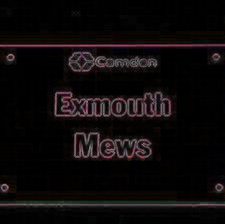
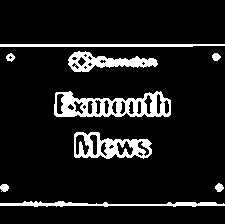
morphological operations implemented

diff --git a/src/main/kotlin/Main.kt b/src/main/kotlin/Main.kt
@@ -4,19 +4,39 @@ import org.opencv.core.Size
 import org.opencv.imgcodecs.Imgcodecs
 import org.opencv.imgproc.Imgproc
 
-fun runMorphologicalOperators(input:Mat): Mat {
-    val dilated = input.clone()
-    val eroded = input.clone()
-    val subtracted = input.clone()
-    val kernel = Imgproc.getStructuringElement(Imgproc.MORPH_ELLIPSE, Size(3.0,3.0))
-    Imgproc.dilate(input, dilated, kernel)
-    Imgproc.erode(input, eroded, kernel)
-    Core.subtract(dilated, eroded, subtracted)
-    return subtracted
+
+fun Mat.preprocess(): Mat {
+    val dst = this.clone()
+    Imgproc.cvtColor(this, dst, Imgproc.COLOR_BGR2GRAY)
+    return dst
 }
+
+fun Mat.dilateAndErode(isSubtracting: Boolean): Mat {
+    val dilated = this.clone()
+    val eroded = this.clone()
+    val subtracted = this.clone()
+    val kernel = Imgproc.getStructuringElement(Imgproc.MORPH_ELLIPSE, Size(3.0,3.0))
+    Imgproc.dilate(this, dilated, kernel)
+    Imgproc.erode(if (!isSubtracting) dilated else this, eroded, kernel)
+    if (isSubtracting) {
+        Core.subtract(dilated, eroded, subtracted)
+    }
+    return if (isSubtracting) subtracted else eroded
+}
+
+fun Mat.getSkeleton() = this.dilateAndErode(isSubtracting = true)
+
+fun Mat.thresholdOTSU(): Mat {
+    val dst = this.clone()
+    Imgproc.threshold(this, dst, 0.0, 255.0, Imgproc.THRESH_BINARY or Imgproc.THRESH_OTSU)
+    return dst
+}
+
+fun Mat.morphClose() = this.dilateAndErode(isSubtracting = false)
 
 fun main(args: Array<String>) {
     System.loadLibrary(Core.NATIVE_LIBRARY_NAME)
     val image = Imgcodecs.imread("/Users/ashis.paul/Documents/scene-text-detection/res/download.jpeg")
-    Imgcodecs.imwrite("/Users/ashis.paul/Documents/scene-text-detection/res/morphed.jpg", runMorphologicalOperators(image))
+    val final = image.preprocess().getSkeleton().thresholdOTSU().morphClose()
+    Imgcodecs.imwrite("/Users/ashis.paul/Documents/scene-text-detection/res/morphed.jpg", final)
 }
